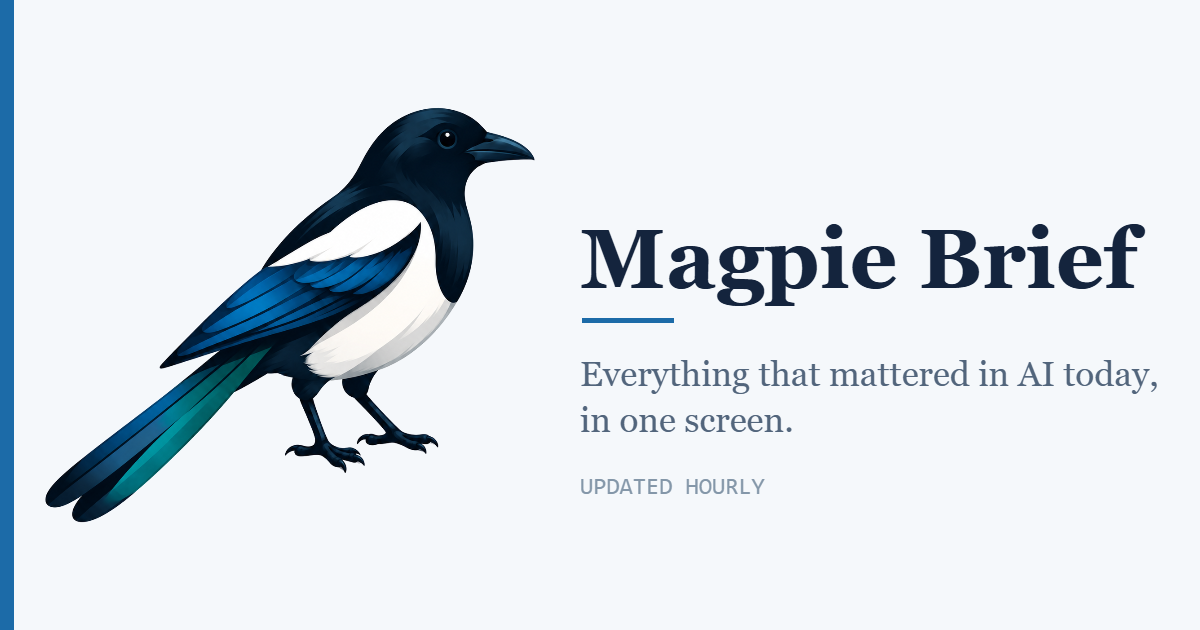
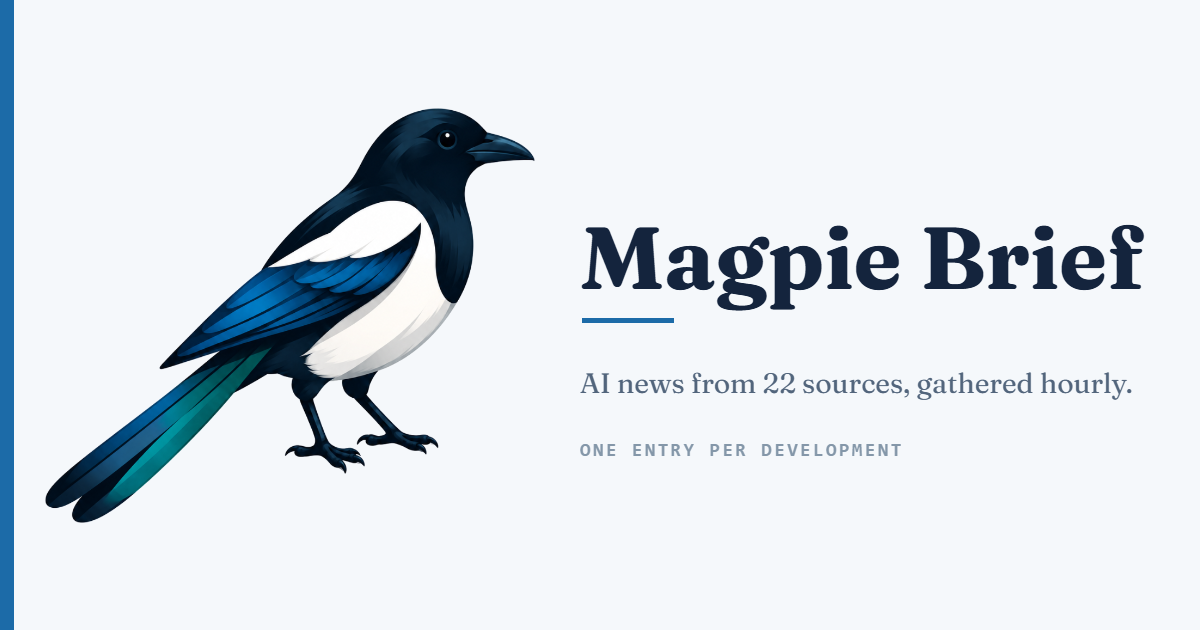
Regenerate the share card, which still promised one screen
The tagline in config.js changed two commits ago, but the og:image bakes it
into pixels — so every link shared to Slack, X or LinkedIn still showed
"Everything that mattered in AI today, in one screen", the exact claim to
judgement the site had just stopped making. A string change cannot reach an
image, and nothing failed to warn about it.

The card is redrawn with the current tagline, and in Fraunces rather than
Palatino, so it matches the site's own typography for the first time. The
kicker now reads ONE ENTRY PER DEVELOPMENT, since "updated hourly" repeated
what the tagline already says. Composition is unchanged: bird placement, rule,
colours and text column were all measured off the original.

The generator is committed as brand/og-card.html so the next tagline change
has somewhere obvious to go. Its header says why the card cannot simply read
config.js, which is the thing that made this drift silent.

diff --git a/brand/og-card.html b/brand/og-card.html
@@ -1,0 +1,152 @@
+<!doctype html>
+<!--
+  Generates public/og.png — the social share card.
+
+  That card bakes the tagline into pixels, so changing site.tagline in config.js
+  does NOT update it. It stayed on a tagline the site had already abandoned
+  until someone noticed. Re-run this whenever the tagline or wordmark changes.
+
+  It must be SERVED, not opened from disk: canvas.toDataURL() refuses to export
+  once a file:// image has tainted the canvas. Serve the repo root over HTTP,
+  open this file, and either right-click the canvas to save it as
+  public/og.png, or POST `window.png` to a small writer script.
+
+  Geometry here was measured off the original card so the composition survives;
+  only the typeface (now the site's own Fraunces) and the copy have changed.
+-->
+<html>
+<head>
+<meta charset="utf-8">
+<title>og card generator</title>
+<style>
+  @font-face {
+    font-family: "Fraunces";
+    font-style: normal;
+    font-weight: 400 700;
+    src: url("../public/fonts/fraunces-normal-latin.woff2") format("woff2");
+  }
+  body { margin: 0; background: #333; }
+  canvas { display: block; width: 700px; margin: 20px auto; }
+</style>
+</head>
+<body>
+<canvas id="c" width="1200" height="630"></canvas>
+<img id="bird" src="../public/logo.png" style="display:none">
+<script>
+// Geometry measured off the previous card so the composition is unchanged;
+// only the typeface (now the site's own Fraunces) and the copy differ.
+const BG = '#f5f8fb';
+const ACCENT = '#1c6ba8';
+const INK = '#14243d';
+const INK_SOFT = '#52657c';
+const INK_FAINT = '#8497a9';
+
+const TEXT_X = 580;
+const TEXT_RIGHT = 1150;
+const WORDMARK_TOP = 224;
+const WORDMARK_CAP = 82;
+const RULE = { x: 582, y: 318, w: 92, h: 5 };
+const TAGLINE_TOP = 372;
+
+const WORDMARK = 'Magpie Brief';
+const TAGLINE = 'AI news from 22 sources, gathered hourly.';
+const KICKER = 'ONE ENTRY PER DEVELOPMENT';
+
+window.ready = false;
+window.png = null;
+
+function loaded(img) {
+  return img.complete ? Promise.resolve() : new Promise((r) => { img.onload = r; img.onerror = r; });
+}
+
+/** Largest size at which `text` still fits `maxWidth` — the wordmark was once
+    clipped to "Magpie Brie" by a hard-coded size, so nothing is assumed. */
+function fitSize(ctx, text, font, maxWidth, start) {
+  let size = start;
+  while (size > 8) {
+    ctx.font = font(size);
+    if (ctx.measureText(text).width <= maxWidth) return size;
+    size -= 1;
+  }
+  return size;
+}
+
+function wrap(ctx, text, maxWidth) {
+  const words = text.split(' ');
+  const lines = [];
+  let line = '';
+  for (const w of words) {
+    const next = line ? line + ' ' + w : w;
+    if (ctx.measureText(next).width > maxWidth && line) { lines.push(line); line = w; }
+    else line = next;
+  }
+  if (line) lines.push(line);
+  return lines;
+}
+
+(async () => {
+  const bird = document.getElementById('bird');
+  await loaded(bird);
+  await document.fonts.load('700 110px Fraunces');
+  await document.fonts.load('400 34px Fraunces');
+  await document.fonts.ready;
+
+  const ctx = document.getElementById('c').getContext('2d');
+
+  ctx.fillStyle = BG;
+  ctx.fillRect(0, 0, 1200, 630);
+  ctx.fillStyle = ACCENT;
+  ctx.fillRect(0, 0, 14, 630);
+
+  ctx.drawImage(bird, 45, 108, 490, 415);
+
+  // Wordmark, sized so its cap height matches the original card exactly.
+  const serif = (px) => `700 ${px}px Fraunces, Georgia, serif`;
+  let size = fitSize(ctx, WORDMARK, serif, TEXT_RIGHT - TEXT_X, 130);
+  ctx.font = serif(size);
+  let m = ctx.measureText(WORDMARK);
+  // Scale so the measured cap height lands on WORDMARK_CAP, then re-fit width.
+  size = Math.min(Math.round(size * (WORDMARK_CAP / m.actualBoundingBoxAscent)), size);
+  size = fitSize(ctx, WORDMARK, serif, TEXT_RIGHT - TEXT_X, size);
+  ctx.font = serif(size);
+  m = ctx.measureText(WORDMARK);
+  ctx.fillStyle = INK;
+  ctx.textBaseline = 'alphabetic';
+  ctx.fillText(WORDMARK, TEXT_X, WORDMARK_TOP + m.actualBoundingBoxAscent);
+
+  ctx.fillStyle = ACCENT;
+  ctx.fillRect(RULE.x, RULE.y, RULE.w, RULE.h);
+
+  // One line if it can be had without going small: this tagline is short, and
+  // wrapping it left "hourly." stranded on a line of its own.
+  const tagFont = (px) => `400 ${px}px Fraunces, Georgia, serif`;
+  const maxW = TEXT_RIGHT - TEXT_X;
+  const onePx = fitSize(ctx, TAGLINE, tagFont, maxW, 34);
+  const tagPx = onePx >= 28 ? onePx : 34;
+  ctx.font = tagFont(tagPx);
+  const lines = wrap(ctx, TAGLINE, maxW);
+  const lineH = Math.round(tagPx * 1.3);
+
+  ctx.fillStyle = INK_SOFT;
+  lines.forEach((ln, i) => {
+    const mm = ctx.measureText(ln);
+    ctx.fillText(ln, TEXT_X, TAGLINE_TOP + i * lineH + mm.actualBoundingBoxAscent);
+  });
+
+  // Anchored below the tagline block rather than at a fixed y, so the spacing
+  // holds whether the tagline runs to one line or two.
+  const kickerTop = TAGLINE_TOP + (lines.length - 1) * lineH + 72;
+  ctx.font = '600 19px ui-monospace, "SF Mono", Menlo, Consolas, monospace';
+  ctx.letterSpacing = '2.5px';
+  ctx.fillStyle = INK_FAINT;
+  const km = ctx.measureText(KICKER);
+  ctx.fillText(KICKER, TEXT_X, kickerTop + km.actualBoundingBoxAscent);
+  ctx.letterSpacing = '0px';
+
+  window.png = document.getElementById('c').toDataURL('image/png');
+  window.pngLen = window.png.length;
+  window.ready = true;
+})();
+</script>
+</body>
+</html>
